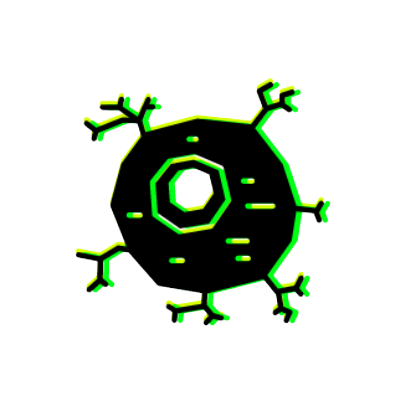
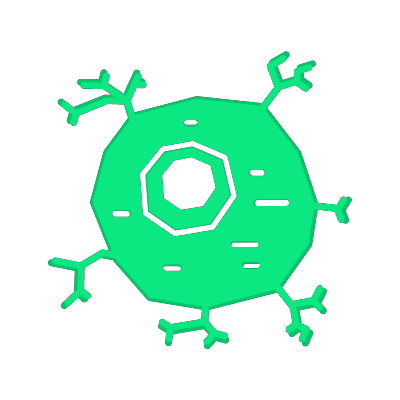
update assets

Changed region(s): [[0.12, 0.12, 0.9, 0.87]]

diff --git a/README.md b/README.md
@@ -47,7 +47,7 @@ It is the end user's responsibility to obey all applicable local, state, and fed
 ### Preview
 
 <a><img src="./images/cliprev.png" width=660 height="360"></a>
-<a><img src="./images/guiprev2.png" width=660 height="360"></a>
+<a><img src="./images/guiprev.png" width=660 height="360"></a>
 
 ### Installation
 
@@ -88,7 +88,7 @@ Qualear is currently passing all tests; however, I have provided instructions fo
 
 ### Attributions
 
-[Social Preview](./images/card.jpg) created by [TheOneTrueDude](https://github.com/FirstTrueDude)
+[Logo](./images/qualear.png) created with and licensed by [LogoMakr CC License](https://my.logomakr.com/cc-license/)
 
 ## Package-Types
 
